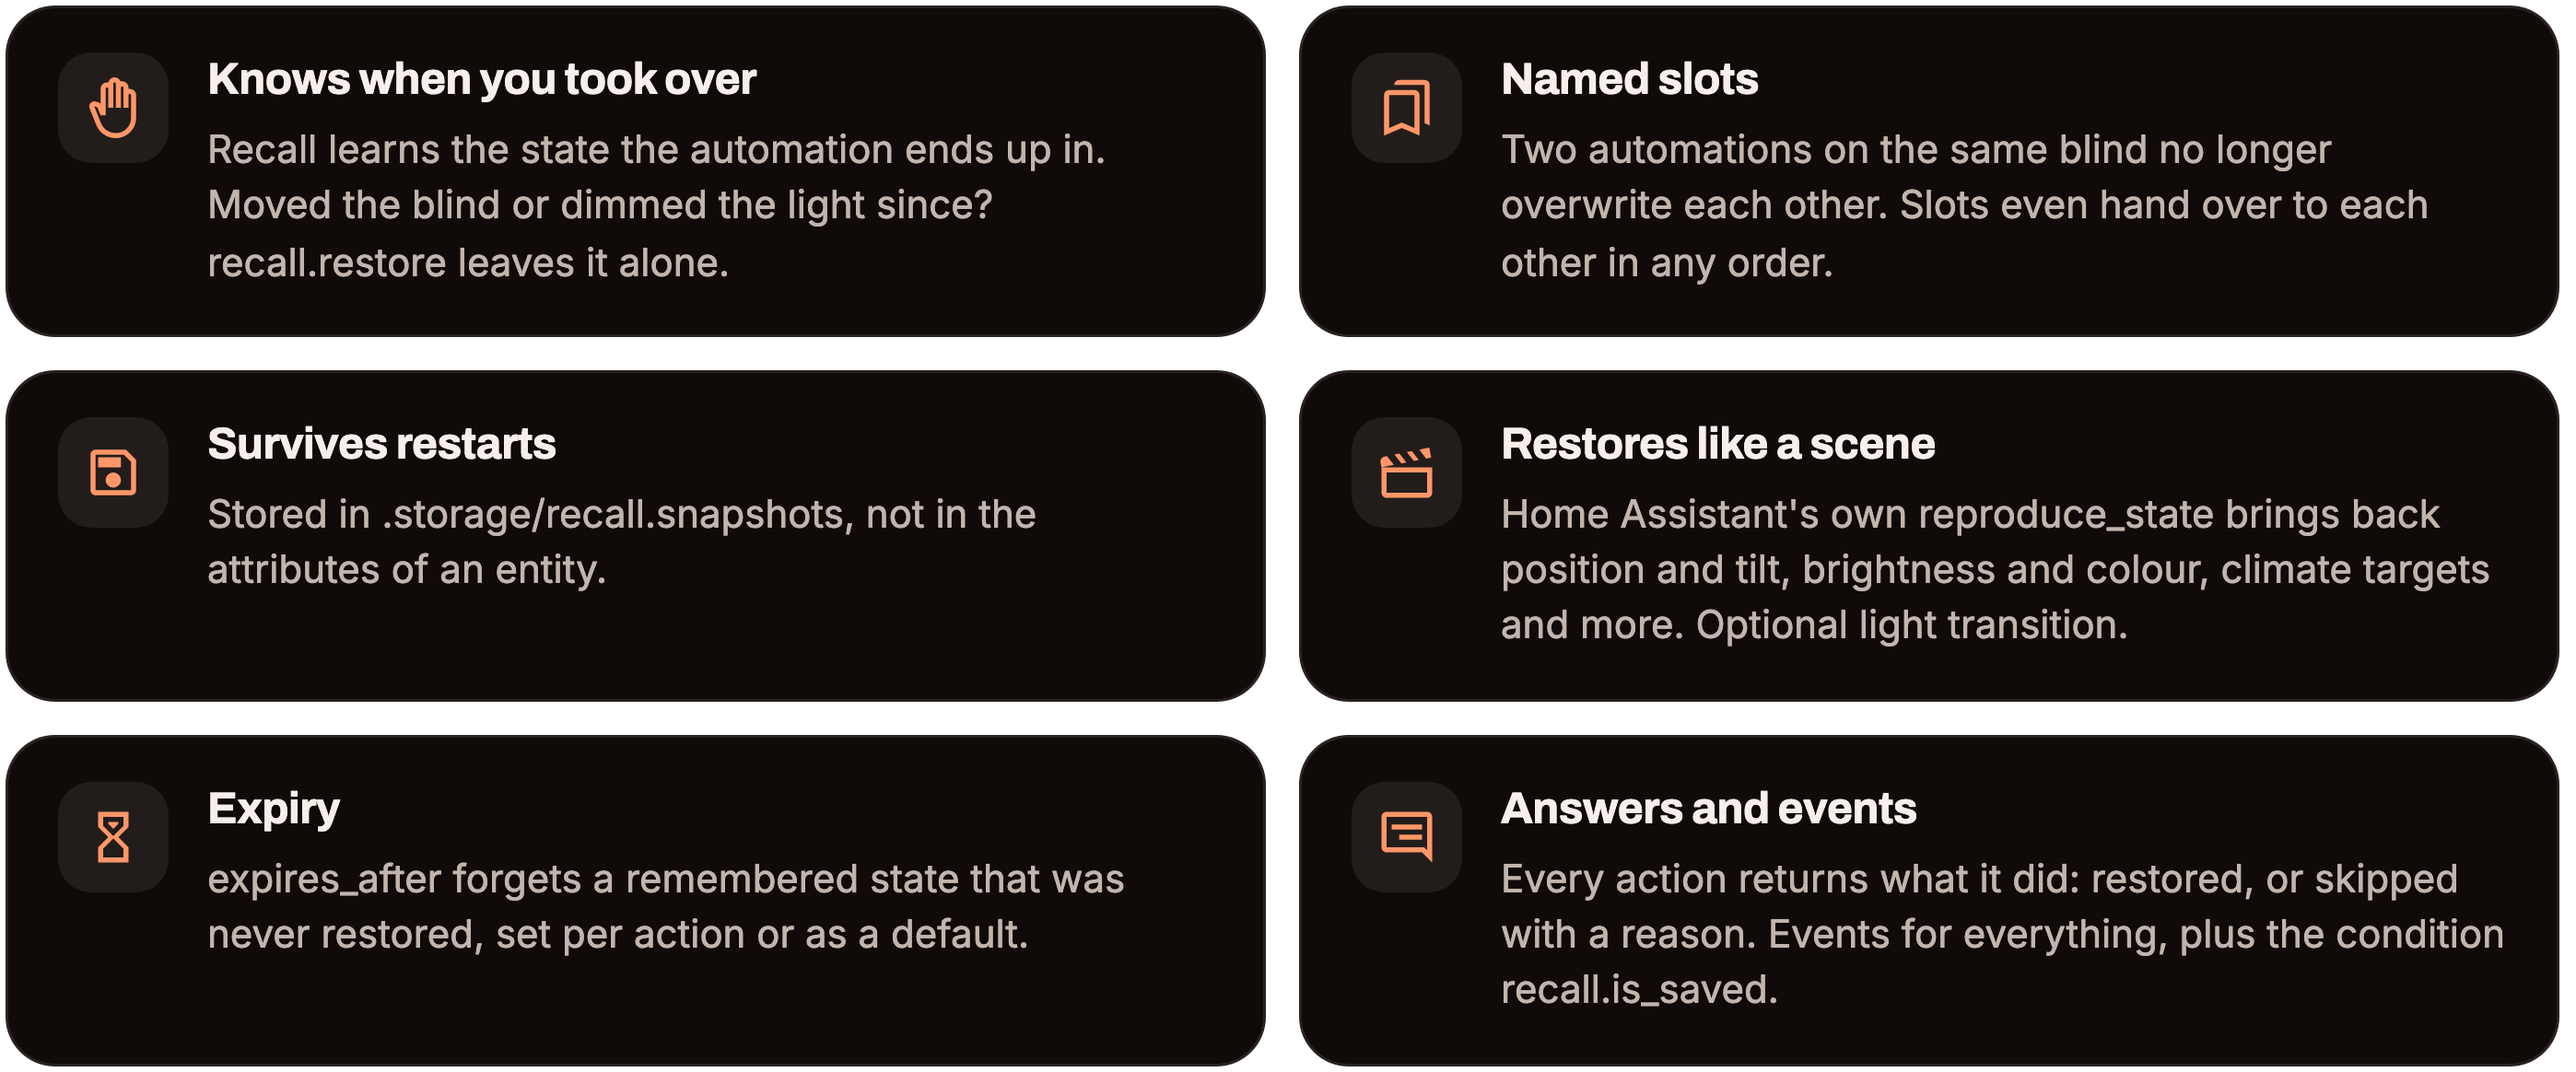
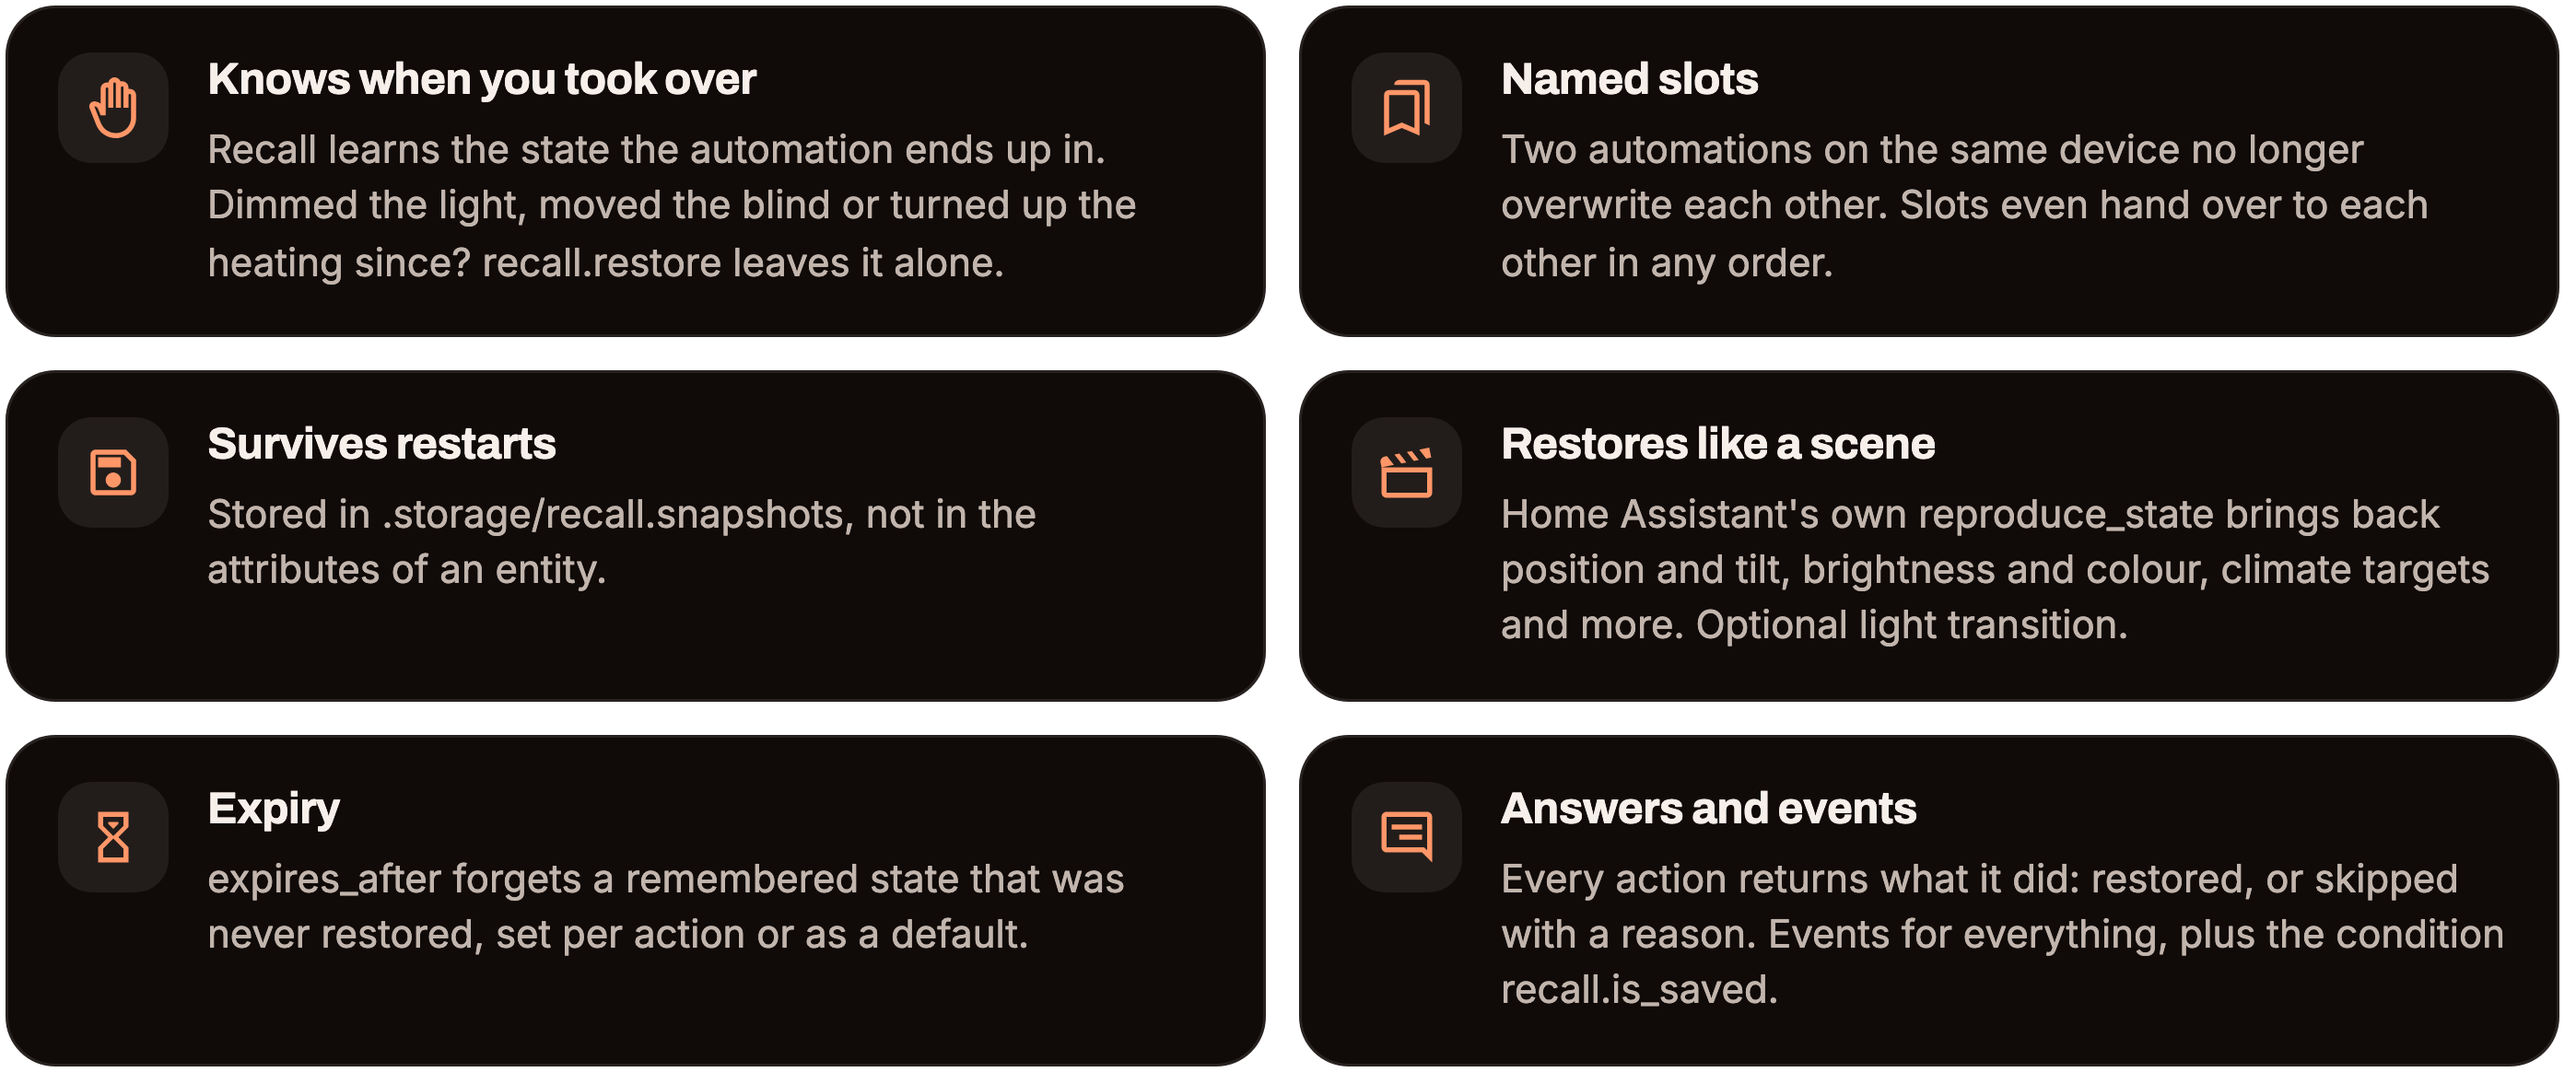
Docs: describe Recall for any device, not just blinds
Claude-Session: https://claude.ai/code/session_01ULsc5ZrKnvkcrEhHsqXvCz

Changed region(s): [[0.0933, 0.1546, 0.4356, 0.2784], [0.809, 0.1237, 0.9335, 0.1546]]

diff --git a/docs/index.html b/docs/index.html
@@ -289,7 +289,7 @@ footer .fine { flex-basis: 100%; line-height: 1.6; }
   <div class="wrap">
     <p class="eyebrow reveal"><span class="en">For Home Assistant</span><span class="de">Für Home Assistant</span></p>
     <h1 class="reveal d1"><span class="en">Remember a state.<br><em>Restore it, unless you changed it.</em></span><span class="de">Zustand merken.<br><em>Zurück, außer du hast verstellt.</em></span></h1>
-    <p class="lead reveal d2"><span class="en">Automations often do <em>remember the blind, move it, put it back later</em>. Recall does that and <strong>notices when someone took over</strong>: what was moved by hand stays where it is. Named slots, survives restarts, a modern replacement for Saver.</span><span class="de">Automationen machen oft <em>Jalousie merken, fahren, später zurück</em>. Recall macht das und <strong>merkt, wenn jemand übernommen hat</strong>: Was von Hand verstellt wurde, bleibt, wo es ist. Benannte Slots, übersteht Neustarts, ein moderner Ersatz für Saver.</span></p>
+    <p class="lead reveal d2"><span class="en">Many automations change something for a while and put it back afterwards: <em>lights for a movie, blinds for the sun, the thermostat while a window is open, the speaker volume for an announcement</em>. Recall does that and <strong>notices when someone took over</strong>: what was moved by hand stays where it is. Named slots, survives restarts, a modern replacement for Saver.</span><span class="de">Viele Automationen verstellen etwas für eine Weile und stellen es danach zurück: <em>Licht für den Film, Jalousien gegen die Sonne, das Thermostat bei offenem Fenster, die Lautstärke für eine Durchsage</em>. Recall macht das und <strong>merkt, wenn jemand übernommen hat</strong>: Was von Hand verstellt wurde, bleibt, wo es ist. Benannte Slots, übersteht Neustarts, ein moderner Ersatz für Saver.</span></p>
     <div class="cta reveal d3">
       <a class="btn" href="#install"><span class="en">Install with HACS</span><span class="de">Mit HACS installieren</span></a>
       <a class="btn ghost" href="https://github.com/SH1FT-W/recall#readme"><span class="en">Read the README</span><span class="de">Zur Anleitung</span></a>
@@ -313,8 +313,8 @@ footer .fine { flex-basis: 100%; line-height: 1.6; }
       <p class="lead"><span class="en">Three actions, one condition, one sensor. No helpers, no templates.</span><span class="de">Drei Aktionen, eine Bedingung, ein Sensor. Keine Helfer, keine Templates.</span></p>
     </div>
     <div class="grid3">
-      <div class="tile reveal"><div class="ico"><svg viewBox="0 0 24 24" fill="none" stroke="currentColor" stroke-width="2" stroke-linecap="round" stroke-linejoin="round"><path d="M18 11V6a2 2 0 0 0-4 0v5M14 10V4a2 2 0 0 0-4 0v6M10 10.5V6a2 2 0 0 0-4 0v8"/><path d="M18 8a2 2 0 0 1 4 0v6a8 8 0 0 1-8 8h-2a8 8 0 0 1-6-3l-3.5-4a2 2 0 0 1 3-2.6L6 14"/></svg></div><h3><span class="en">Knows when you took over</span><span class="de">Merkt, wenn du übernommen hast</span></h3><p><span class="en">Recall learns the state the automation ends up in. Moved the blind or dimmed the light since? <code>recall.restore</code> leaves it alone.</span><span class="de">Recall lernt, wo die Automation das Gerät hingestellt hat. Seitdem selbst verstellt? <code>recall.restore</code> lässt es in Ruhe.</span></p></div>
-      <div class="tile reveal d1"><div class="ico"><svg viewBox="0 0 24 24" fill="none" stroke="currentColor" stroke-width="2" stroke-linecap="round" stroke-linejoin="round"><path d="M19 21l-5-3-5 3V5a2 2 0 0 1 2-2h6a2 2 0 0 1 2 2z"/><path d="M5 7v14l3-2"/></svg></div><h3><span class="en">Named slots</span><span class="de">Benannte Slots</span></h3><p><span class="en">Two automations on the same blind no longer overwrite each other, and slots hand over to each other in any order.</span><span class="de">Zwei Automationen an derselben Jalousie überschreiben sich nicht mehr, Slots übergeben in jeder Reihenfolge.</span></p></div>
+      <div class="tile reveal"><div class="ico"><svg viewBox="0 0 24 24" fill="none" stroke="currentColor" stroke-width="2" stroke-linecap="round" stroke-linejoin="round"><path d="M18 11V6a2 2 0 0 0-4 0v5M14 10V4a2 2 0 0 0-4 0v6M10 10.5V6a2 2 0 0 0-4 0v8"/><path d="M18 8a2 2 0 0 1 4 0v6a8 8 0 0 1-8 8h-2a8 8 0 0 1-6-3l-3.5-4a2 2 0 0 1 3-2.6L6 14"/></svg></div><h3><span class="en">Knows when you took over</span><span class="de">Merkt, wenn du übernommen hast</span></h3><p><span class="en">Recall learns the state the automation ends up in. Dimmed the light, moved the blind or turned up the heating since? <code>recall.restore</code> leaves it alone.</span><span class="de">Recall lernt, wo die Automation das Gerät hingestellt hat. Seitdem selbst verstellt? <code>recall.restore</code> lässt es in Ruhe.</span></p></div>
+      <div class="tile reveal d1"><div class="ico"><svg viewBox="0 0 24 24" fill="none" stroke="currentColor" stroke-width="2" stroke-linecap="round" stroke-linejoin="round"><path d="M19 21l-5-3-5 3V5a2 2 0 0 1 2-2h6a2 2 0 0 1 2 2z"/><path d="M5 7v14l3-2"/></svg></div><h3><span class="en">Named slots</span><span class="de">Benannte Slots</span></h3><p><span class="en">Two automations on the same device no longer overwrite each other, and slots hand over to each other in any order.</span><span class="de">Zwei Automationen am selben Gerät überschreiben sich nicht mehr, Slots übergeben in jeder Reihenfolge.</span></p></div>
       <div class="tile reveal d2"><div class="ico"><svg viewBox="0 0 24 24" fill="none" stroke="currentColor" stroke-width="2" stroke-linecap="round" stroke-linejoin="round"><path d="M19 21H5a2 2 0 0 1-2-2V5a2 2 0 0 1 2-2h11l5 5v11a2 2 0 0 1-2 2z"/><path d="M17 21v-8H7v8M7 3v5h8"/></svg></div><h3><span class="en">Survives restarts</span><span class="de">Übersteht Neustarts</span></h3><p><span class="en">Stored in <code>.storage/recall.snapshots</code>, not in the attributes of an entity.</span><span class="de">Gespeichert in <code>.storage/recall.snapshots</code>, nicht in Attributen einer Entität.</span></p></div>
       <div class="tile reveal"><div class="ico"><svg viewBox="0 0 24 24" fill="none" stroke="currentColor" stroke-width="2" stroke-linecap="round" stroke-linejoin="round"><rect x="2" y="7" width="20" height="14" rx="2"/><path d="M2 7l4-4M8 7l4-4M14 7l4-4"/></svg></div><h3><span class="en">Restores like a scene</span><span class="de">Stellt zurück wie eine Szene</span></h3><p><span class="en">Home Assistant's own <code>reproduce_state</code>: position and tilt, brightness and colour, climate targets. Optional light transition.</span><span class="de">Mit Home Assistants eigenem <code>reproduce_state</code>: Position und Lamellen, Helligkeit und Farbe, Klima-Sollwerte. Optional mit Überblendung.</span></p></div>
       <div class="tile reveal d1"><div class="ico"><svg viewBox="0 0 24 24" fill="none" stroke="currentColor" stroke-width="2" stroke-linecap="round" stroke-linejoin="round"><path d="M6 2h12M6 22h12M7 2v4a5 5 0 0 0 10 0V2M7 22v-4a5 5 0 0 1 10 0v4"/></svg></div><h3><span class="en">Expiry</span><span class="de">Ablauf</span></h3><p><span class="en"><code>expires_after</code> forgets a remembered state that was never restored, per action or as a default.</span><span class="de"><code>expires_after</code> vergisst einen Zustand, der nie zurückgestellt wurde, je Aktion oder als Vorgabe.</span></p></div>

diff --git a/README.md b/README.md
@@ -18,7 +18,7 @@ A modern replacement for <b>Saver</b>.</p>
 
 <br/>
 
-Automations often do *"remember the blind, move it, put it back later"*. The usual tool for that is [Saver](https://github.com/PiotrMachowski/Home-Assistant-custom-components-Saver). Recall does the same job and fixes what made Saver awkward in practice: it **notices when someone took over** and leaves that device alone, keeps **named slots** so two automations do not overwrite each other, and **survives restarts**. No more `input_boolean.*_controlled_by_automation` helpers.
+Many automations change something for a while and put it back afterwards: lights for a movie, blinds for the sun, the thermostat while a window is open, the speaker volume for an announcement. The usual tool for that is [Saver](https://github.com/PiotrMachowski/Home-Assistant-custom-components-Saver). Recall does the same job and fixes what made Saver awkward in practice: it **notices when someone took over** and leaves that device alone, keeps **named slots** so two automations do not overwrite each other, and **survives restarts**. No more `input_boolean.*_controlled_by_automation` helpers.
 
 > [!NOTE]
 > Recall is an independent project. It is not affiliated with Saver or its author, and contains no code from it.
